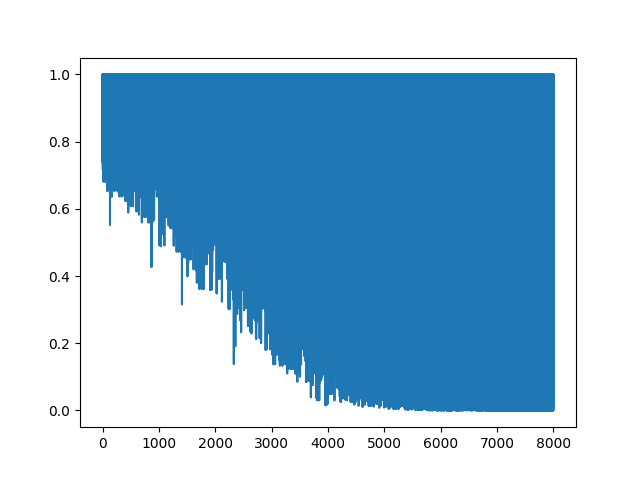
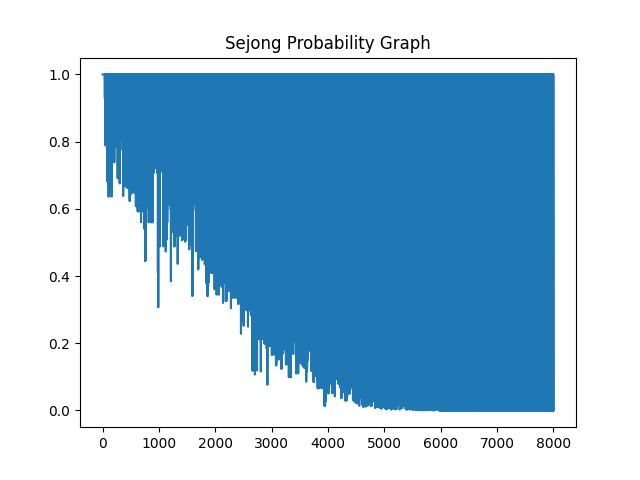
Renamed output graph name in 'sejong_test.py'. Also added graphs as reference.

Changed region(s): [[0.1562, 0.1562, 0.5625, 0.8438], [0.3438, 0.0625, 0.6875, 0.125], [0.5625, 0.8438, 0.625, 0.875]]

diff --git a/sejong_test.py b/sejong_test.py
@@ -243,10 +243,12 @@ min_score_list = log_list[2]
 
 score_fig = plt.figure(1)
 plt.plot(score_history_list)
+plt.title('Sejong Score Graph')
 plt.savefig('score_history.png')
 plt.close(score_fig)
 prob_fig = plt.figure(2)
 plt.plot(probability_history_list)
+plt.title('Sejong Probability Graph')
 plt.savefig('prob_history.png')
 plt.close(prob_fig)
 
